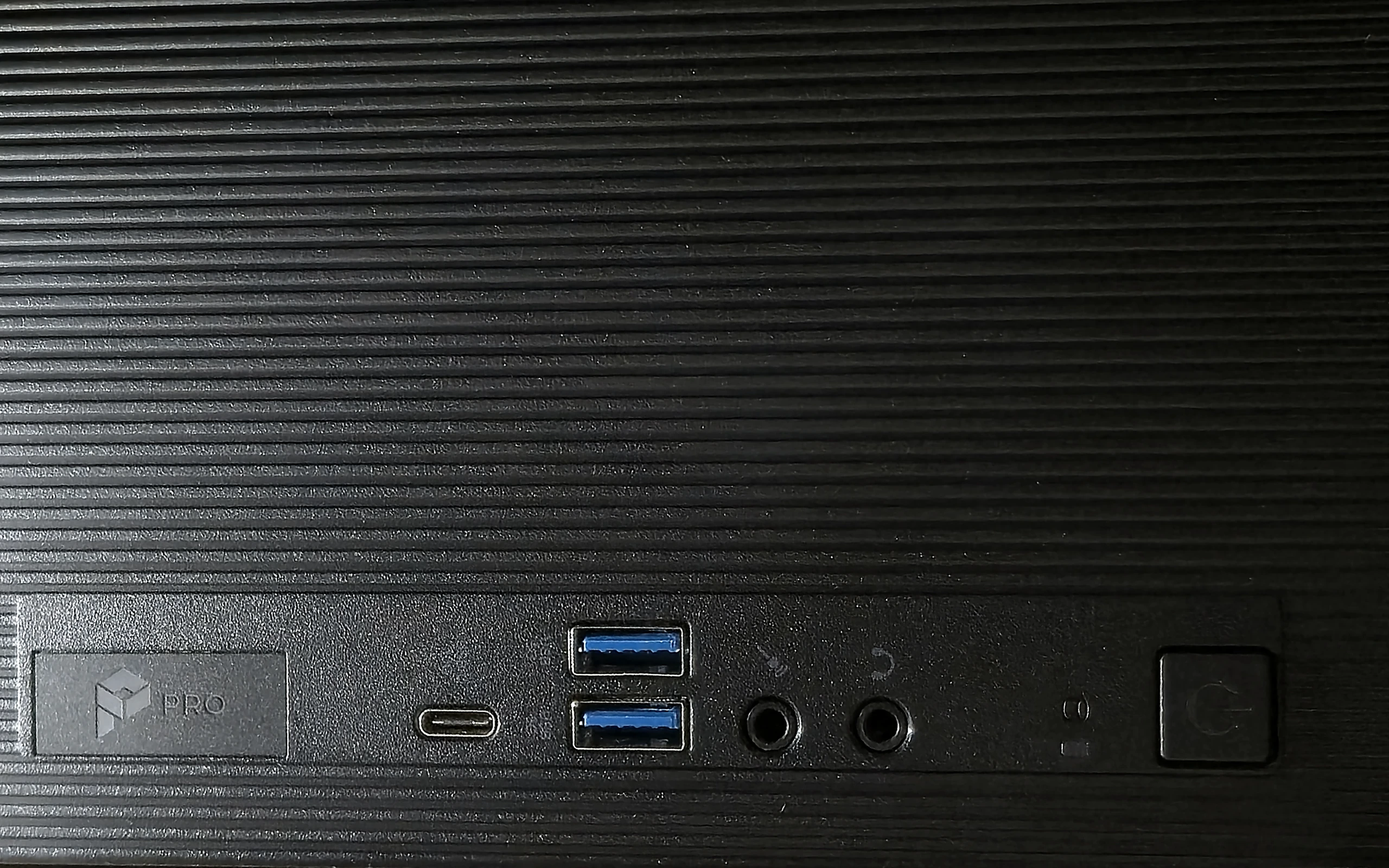
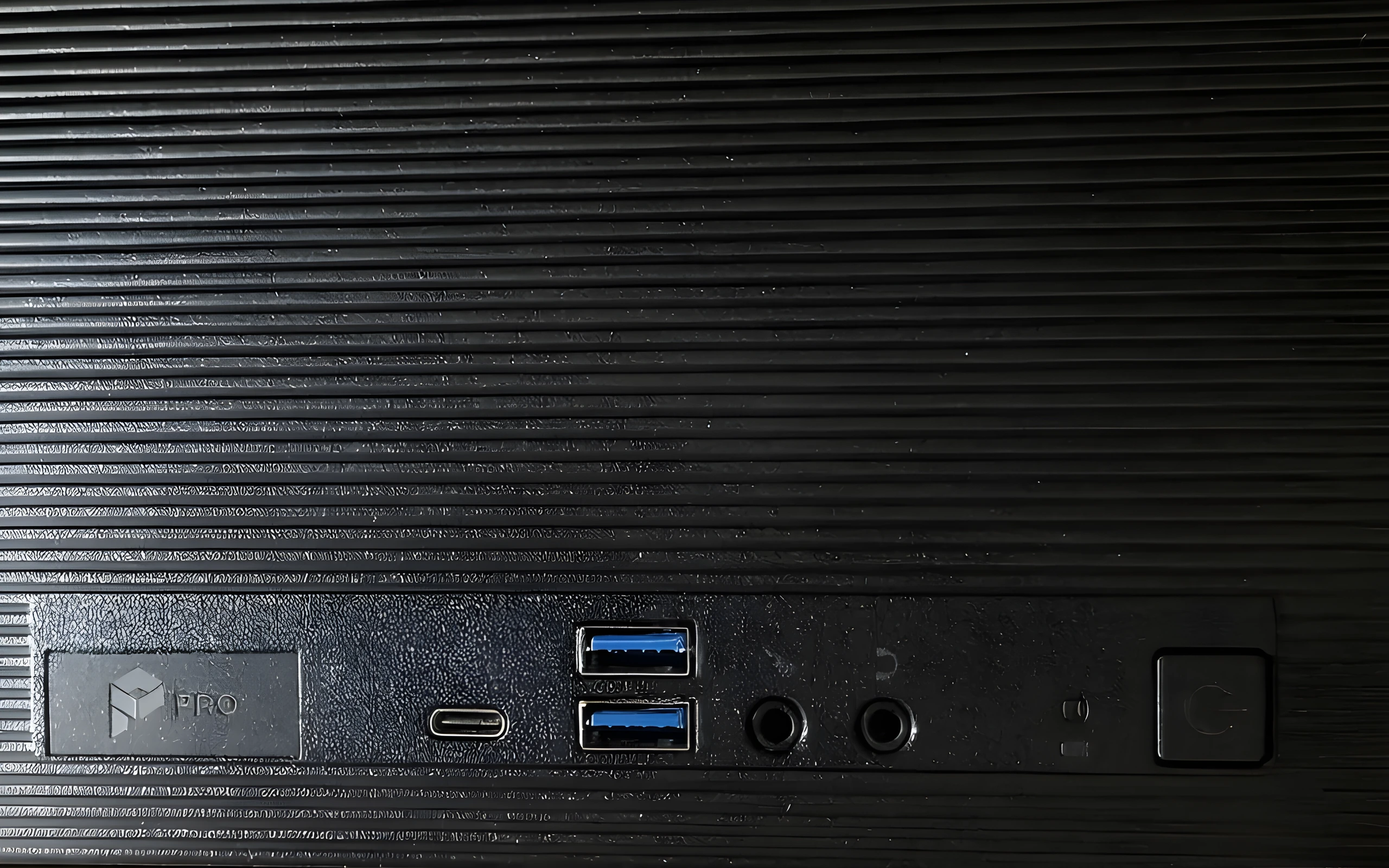
Render the close-ups and rear panels too, except where words are the subject
Rendering these was asked for after I had left them photographic. The
objection I raised turned out to be half right, and the half that was
wrong is worth recording: at 1.0 a rear I/O panel comes back with an
invented PS/2 pin pattern, but that is a symptom of full denoise, not of
rendering the frame at all. At 0.80 the tower's rear panel returns port
for port -- PS/2, two HDMI, red USB-A, USB-C, two blue USB-A, RJ45,
three audio jacks in the same order and the same colours -- and the
AC 220V label stays legible. Checked one connector at a time at 1:1.

Ten of the twelve ship rendered. The line is not close-up versus wide,
it is whether a reader would read the pixels. Shapes survive: sockets,
connectors, vents, the etched Latios wordmark, the gold PRO badge, the
LGA pin array, the M.2 in situ. Silkscreen at two millimetres does not.

So two frames revert to the camera. On the SFF rear panel the layout was
right and every label was wrong: DisplayPort -> Displuy/Port, both
USB 10G -> USB 1\0O and USB 11.G, MIC-IN -> MU 0. The M.2 close-up
failed the same way: 500GB and NV3 survived, PCIe 4.0 NVMe M.2 became
PClu 4.0 NVN & M.2, TAIWAN became TAIIIIVN. On a catalogue whose claim
is legible hardware that is worse than an unrendered photograph, so
PHOTOGRAPHIC now names those two and they ship at full camera
resolution.

sff-open needed the prompt to say "keep it open" -- at 1.0 the model
had closed the chassis, which is the one thing that frame documents.

Changed region(s): [[0.0, 0.0, 0.6562, 1.0], [0.8125, 0.75, 0.8438, 0.875]]

diff --git a/tools/image-processing/render_review.py b/tools/image-processing/render_review.py
@@ -1,13 +1,14 @@
 """
-Put a render next to its reference, with the branding blown up underneath.
+Put every render next to the photograph it came from.
 
-Every generative pass in this project has to answer the same two questions
-before it can ship: is this still the Latios machine, and does the wordmark
-still say Latios. A thumbnail answers neither, and sampling frames is what let a
-torn lift phase and a stretched interior through earlier, so this renders the
-whole frame AND a 100% crop of the region the lettering lives in.
+Each generative pass in this project has to answer the same question before it
+can ship -- is this still the machine that was photographed -- and a thumbnail
+does not answer it. This lays the pair side by side at a size where connectors,
+labels and the wordmark are readable, for every frame at once, because sampling
+frames is what let a torn lift phase and a stretched interior through earlier.
 
-    python tools/image-processing/render_review.py front-mt [more...]
+    python tools/image-processing/render_review.py               # all frames
+    python tools/image-processing/render_review.py mt-rear ...   # some
 """
 from __future__ import annotations
 
@@ -23,23 +24,9 @@ OUT = Path(r"C:\Ronak\Latios\Images\pipeline\review")
 PLATE = (242, 242, 240)
 CELL = 760
 
-# Where the wordmark sits, as a fraction of the subject box. The mark is printed
-# on the front bezel, which is the left edge of every three-quarter view in this
-# shoot and the top of the flat ones, so one box does not fit all -- but it is
-# close enough to crop around, and the point is to read the letters, not to
-# measure them.
-MARK = {
-    "front-mt": (0.02, 0.02, 0.22, 0.20),
-    "front-sff": (0.00, 0.02, 0.30, 0.22),
-    "mt-front": (0.00, 0.02, 0.30, 0.18),
-    "mt-angle": (0.00, 0.02, 0.30, 0.20),
-    "sff-front": (0.00, 0.02, 0.55, 0.20),
-    "sff-angle": (0.00, 0.02, 0.28, 0.24),
-}
-DEFAULT_MARK = (0.0, 0.0, 0.35, 0.25)
-
 
 def flat(path: Path) -> Image.Image:
+    """Composite onto the studio plate so a cut-out and a full frame compare alike."""
     im = Image.open(path)
     if im.mode == "RGBA":
         bg = Image.new("RGBA", im.size, (*PLATE, 255))
@@ -48,44 +35,43 @@ def flat(path: Path) -> Image.Image:
     return im.convert("RGB")
 
 
-def crop_frac(im: Image.Image, box) -> Image.Image:
-    x0, y0, x1, y1 = box
-    return im.crop((int(im.width * x0), int(im.height * y0),
-                    int(im.width * x1), int(im.height * y1)))
-
-
-def review(name: str) -> Path:
-    OUT.mkdir(parents=True, exist_ok=True)
-    ref, ren = flat(HIRES / f"{name}.png"), flat(RENDER / f"{name}.png")
-    box = MARK.get(name, DEFAULT_MARK)
-
+def pair(name: str, cell: int = CELL) -> Image.Image | None:
+    ph, rn = HIRES / f"{name}.png", RENDER / f"{name}.png"
+    if not (ph.exists() and rn.exists()):
+        return None
     tiles = []
-    for label, im in (("reference", ref), ("render", ren)):
-        whole = im.copy()
-        whole.thumbnail((CELL, CELL), Image.LANCZOS)
-        mark = crop_frac(im, box)
-        mark.thumbnail((CELL, CELL), Image.LANCZOS)
-        tiles += [(f"{label} — whole", whole), (f"{label} — wordmark 1:1", mark)]
-
-    pad, label_h = 12, 22
-    cols = 2
-    rows = (len(tiles) + cols - 1) // cols
-    w = cols * (CELL + pad) + pad
-    h = rows * (CELL + pad + label_h) + pad
-    sheet = Image.new("RGB", (w, h), (22, 22, 22))
-    draw = ImageDraw.Draw(sheet)
+    for label, p in (("photo", ph), ("render", rn)):
+        im = flat(p)
+        im.thumbnail((cell, cell), Image.LANCZOS)
+        tiles.append((label, im))
+    h = max(t.height for _, t in tiles)
+    out = Image.new("RGB", (2 * (cell + 10) + 10, h + 46), (22, 22, 22))
+    d = ImageDraw.Draw(out)
     for i, (label, im) in enumerate(tiles):
-        x = pad + (i % cols) * (CELL + pad)
-        y = pad + (i // cols) * (CELL + pad + label_h)
-        sheet.paste(im, (x + (CELL - im.width) // 2, y + (CELL - im.height) // 2))
-        draw.text((x + 4, y + CELL + 4), label, fill=(210, 210, 210))
+        x = 10 + i * (cell + 10)
+        out.paste(im, (x + (cell - im.width) // 2, 10 + (h - im.height) // 2))
+        d.text((x + 6, h + 20), f"{label}  {name}", fill=(220, 220, 220))
+    return out
 
-    dst = OUT / f"{name}.jpg"
-    sheet.save(dst, "JPEG", quality=92)
-    print(dst)
-    return dst
+
+def main() -> int:
+    OUT.mkdir(parents=True, exist_ok=True)
+    names = sys.argv[1:] or sorted(
+        p.stem for p in RENDER.glob("*.png") if not p.stem.startswith("_"))
+    made, skipped = [], []
+    for n in names:
+        img = pair(n)
+        if img is None:
+            skipped.append(n)
+            continue
+        dst = OUT / f"pair-{n}.jpg"
+        img.save(dst, "JPEG", quality=93)
+        made.append(dst)
+        print(f"  {dst}")
+    if skipped:
+        print(f"  no pair for: {', '.join(skipped)}")
+    return 0
 
 
 if __name__ == "__main__":
-    for n in sys.argv[1:] or [p.stem for p in RENDER.glob("*.png") if not p.stem.startswith("_")]:
-        review(n)
+    sys.exit(main())

diff --git a/tools/image-processing/shoot_final.py b/tools/image-processing/shoot_final.py
@@ -12,12 +12,18 @@ PHOTOGRAPHIC below for which whole-machine views come from where:
                               gradient behind it, and the turntable stage is
                               that colour already.
 
-  hires/closeup-<name>.png    a close-up, straight off the camera at 50
-                              megapixels. These deliberately never went through
-                              the model: a full-denoise render of a rear I/O
-                              cluster or a CPU socket is free to invent a port,
-                              and on a spec-driven B2B catalogue an invented
-                              port is a false claim.
+  render/closeup-<name>.png   a close-up, rendered at 0.80 and kept at its own
+                              framing -- no cut-out, because a CPU socket lifted
+                              off the board it is bolted to is not a product
+                              shot. 0.80 rather than the 1.0 the tower views
+                              use: at 1.0 this is where the model invents a
+                              PS/2 pin pattern, and a catalogue read against a
+                              spec sheet cannot carry an approximate port.
+
+  hires/closeup-<name>.png    the camera's own version, at up to 50 megapixels.
+                              Still the source for any frame listed in
+                              PHOTOGRAPHIC, and the fallback if a render is
+                              missing.
 
 Output is 2560x2048 for fronts and 2560x1600 for gallery tiles, against
 1600x1280 and 1600x1000 before. Chosen, not maximal: the renders are ~3800px
@@ -51,17 +57,26 @@ PLATE = (242, 242, 240)
 
 _session = new_session("u2net")
 
-# Which whole-machine views come from the render and which stay photographic.
+# Frames to take from the camera instead of the render.
 #
-# The split is not about picture quality, it is about what the frame is FOR. A
-# hero view sells the form and the finish, and there the render wins outright:
-# real studio light, a seamless ground, no office reflected in the panel. A rear
-# I/O view is read against a spec sheet, and at 1:1 the rendered connectors are
-# approximations -- the PS/2 pin pattern is invented, the HDMI and DisplayPort
-# shells are blobby rectangles. An approximate port is a false claim about what
-# is in the box, so those frames keep the camera's version. Same reasoning for
-# the open chassis: it documents what servicing the machine looks like.
-PHOTOGRAPHIC = {"mt-rear", "sff-rear", "sff-open"}
+# The rule that decided this list is not "is it a close-up" but "does the frame
+# carry printed words". Connectors survive a 0.80 render intact -- the tower's
+# rear panel comes back with the same ports in the same order and the same
+# colours, checked one by one at 1:1 -- because their shapes are geometry the
+# model can hold. Lettering silkscreened at two millimetres is not: on the SFF
+# rear panel "DisplayPort" came back as "Displuy/Port", both "USB 10G" as
+# "USB 1\0O" and "USB 11.G", and "MIC-IN" as "MU 0". The layout was right and
+# every label was wrong, which on a catalogue whose whole claim is legible
+# hardware is worse than an unrendered photograph.
+#
+# The M.2 close-up failed identically: "500GB" and "NV3" survived, but
+# "PCIe 4.0 NVMe M.2" became "PClu 4.0 NVN & M.2", "TAIWAN" became "TAIIIIVN",
+# and "WARRANTY VOID IF REMOVED" became "MIAOIIWIAYTA VUIO IF REIHOWEO".
+#
+# So these two ship from the camera. They are the only frames where printed
+# words are the subject rather than incidental, and the split is legible enough
+# to predict: if a reader would read it, the model must not draw it.
+PHOTOGRAPHIC: set[str] = {"closeup-sff-rear-close", "closeup-sff-storage"}
 
 
 def photo_cutout(name: str) -> Image.Image:
@@ -137,7 +152,11 @@ def main() -> int:
                 img = place(subject(f"{form}-{name}"), (DETAIL_W, DETAIL_H),
                             (*PLATE, 255)).convert("RGB")
             else:
-                src = Image.open(HIRES / f"closeup-{form}-{name}.png").convert("RGB")
+                # Close-ups keep their own frame -- no cut-out, because their
+                # background IS the product -- so they only need the crop.
+                key = f"closeup-{form}-{name}"
+                rendered = (RENDER / f"{key}.png").exists() and key not in PHOTOGRAPHIC
+                src = Image.open((RENDER if rendered else HIRES) / f"{key}.png").convert("RGB")
                 img = ImageOps.fit(src, (DETAIL_W, DETAIL_H), Image.LANCZOS, centering=(0.5, 0.5))
             img.save(dst, "WEBP", quality=91, method=6)
             print(f"  {kind:7s} {form}-{name:14s} {img.size[0]}x{img.size[1]}  "

diff --git a/tools/image-processing/shoot_render.py b/tools/image-processing/shoot_render.py
@@ -71,6 +71,27 @@ DENOISE_BY = {
     "mt-angle": 0.80,
     "mt-flank": 0.80,
     "sff-top": 0.80,
+    # The I/O panels, the open chassis and every close-up. These were left
+    # photographic at first, because at 1.0 the rendered connectors came back as
+    # approximations -- an invented PS/2 pin pattern, blobby HDMI shells -- and
+    # this catalogue gets read against a spec sheet. Rendering them was asked
+    # for anyway, so they run at 0.80: the setting that demonstrably keeps
+    # printed detail, since it held the SFF's HDMI sticker and the tower's whole
+    # port column where 1.0 lost both. Each one is checked against its
+    # photograph at 1:1, and any whose connectors or labels drift goes back to
+    # the camera version.
+    "mt-rear": 0.80,
+    "sff-rear": 0.80,
+    "sff-open": 0.80,
+    "closeup-mt-rear-close": 0.80,
+    "closeup-mt-ports": 0.80,
+    "closeup-mt-logo": 0.80,
+    "closeup-mt-interior": 0.80,
+    "closeup-mt-socket": 0.80,
+    "closeup-sff-rear-close": 0.80,
+    "closeup-sff-interior": 0.80,
+    "closeup-sff-cooling": 0.80,
+    "closeup-sff-storage": 0.80,
 }
 
 # One prompt per kind of frame. Both name the machine as "this exact" and list
@@ -137,6 +158,16 @@ FORM = {
     "sff-open": (" The chassis is OPEN with its side panel removed: the "
                  "motherboard, the CPU cooler, the drive cage and the power "
                  "supply are visible inside. Keep it open."),
+    # The rear panels are the frames a buyer checks against the spec sheet, so
+    # their instruction is explicit about what may not change.
+    "mt-rear": (" This is the rear of the tower. Keep the connector panel exactly "
+                "as it is: same connectors in the same order, same colours, same "
+                "expansion slot covers, same power inlet and its label. Change "
+                "only the lighting."),
+    "sff-rear": (" This is the rear of the slim desktop. Keep the connector panel "
+                 "exactly as it is: same connectors in the same order, same "
+                 "colours, same expansion slot covers, same power inlet. Change "
+                 "only the lighting."),
 }
 
 NEG_EXTRA = (", different computer, different chassis, invented ports, extra buttons, "
@@ -223,12 +254,9 @@ def main() -> int:
         sweep(sys.argv[i + 1], [float(v) for v in sys.argv[i + 2].split(",")])
         return 0
 
-    # Whole-machine views only. The close-ups stay photographic on purpose: a
-    # full-denoise render of a rear I/O cluster or a CPU socket is free to
-    # invent a port, and on a spec sheet-driven B2B catalogue an invented port
-    # is a false claim. They are also the frames that gain least -- straight off
-    # the camera they are 50 megapixels of real hardware.
-    names = sorted(p.stem for p in HIRES.glob("*.png") if not p.stem.startswith("closeup-"))
+    # Everything, close-ups included. See DENOISE_BY for why the I/O panels and
+    # the close-ups run at 0.80 rather than the 1.0 the tower views use.
+    names = sorted(p.stem for p in HIRES.glob("*.png"))
     if "--test" in sys.argv:
         names = [sys.argv[sys.argv.index("--test") + 1]]
     for n in names:
